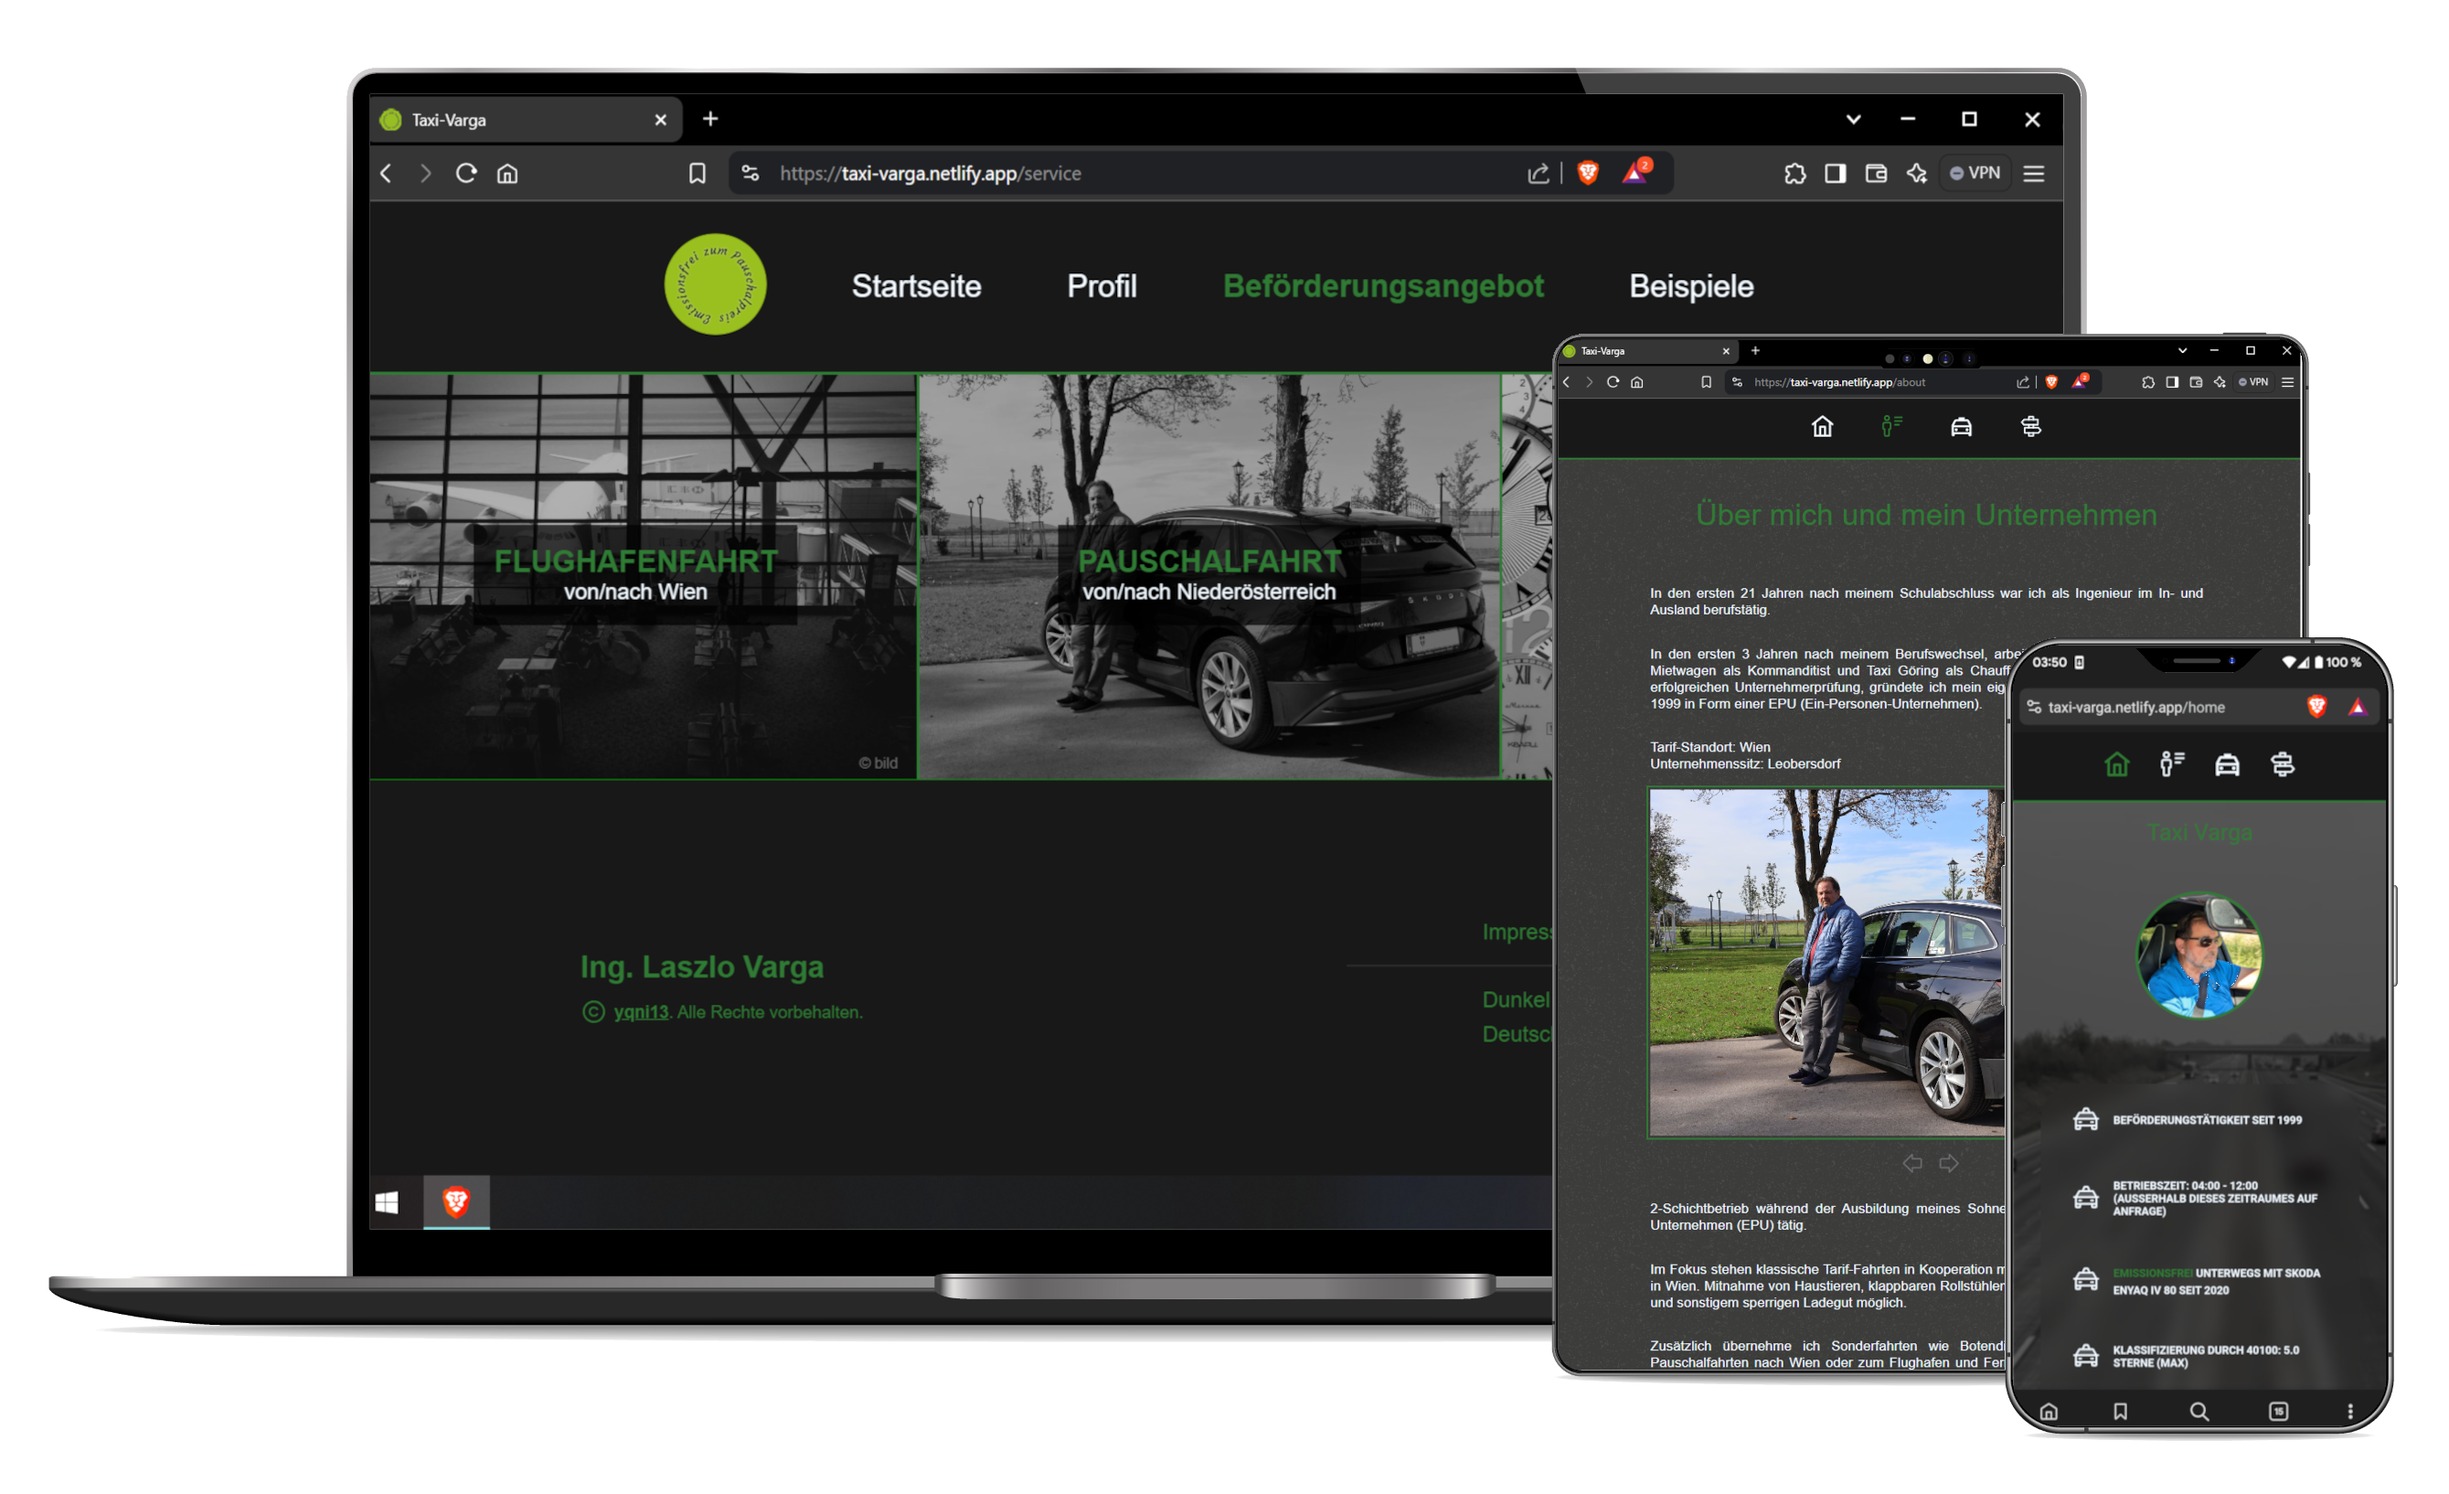
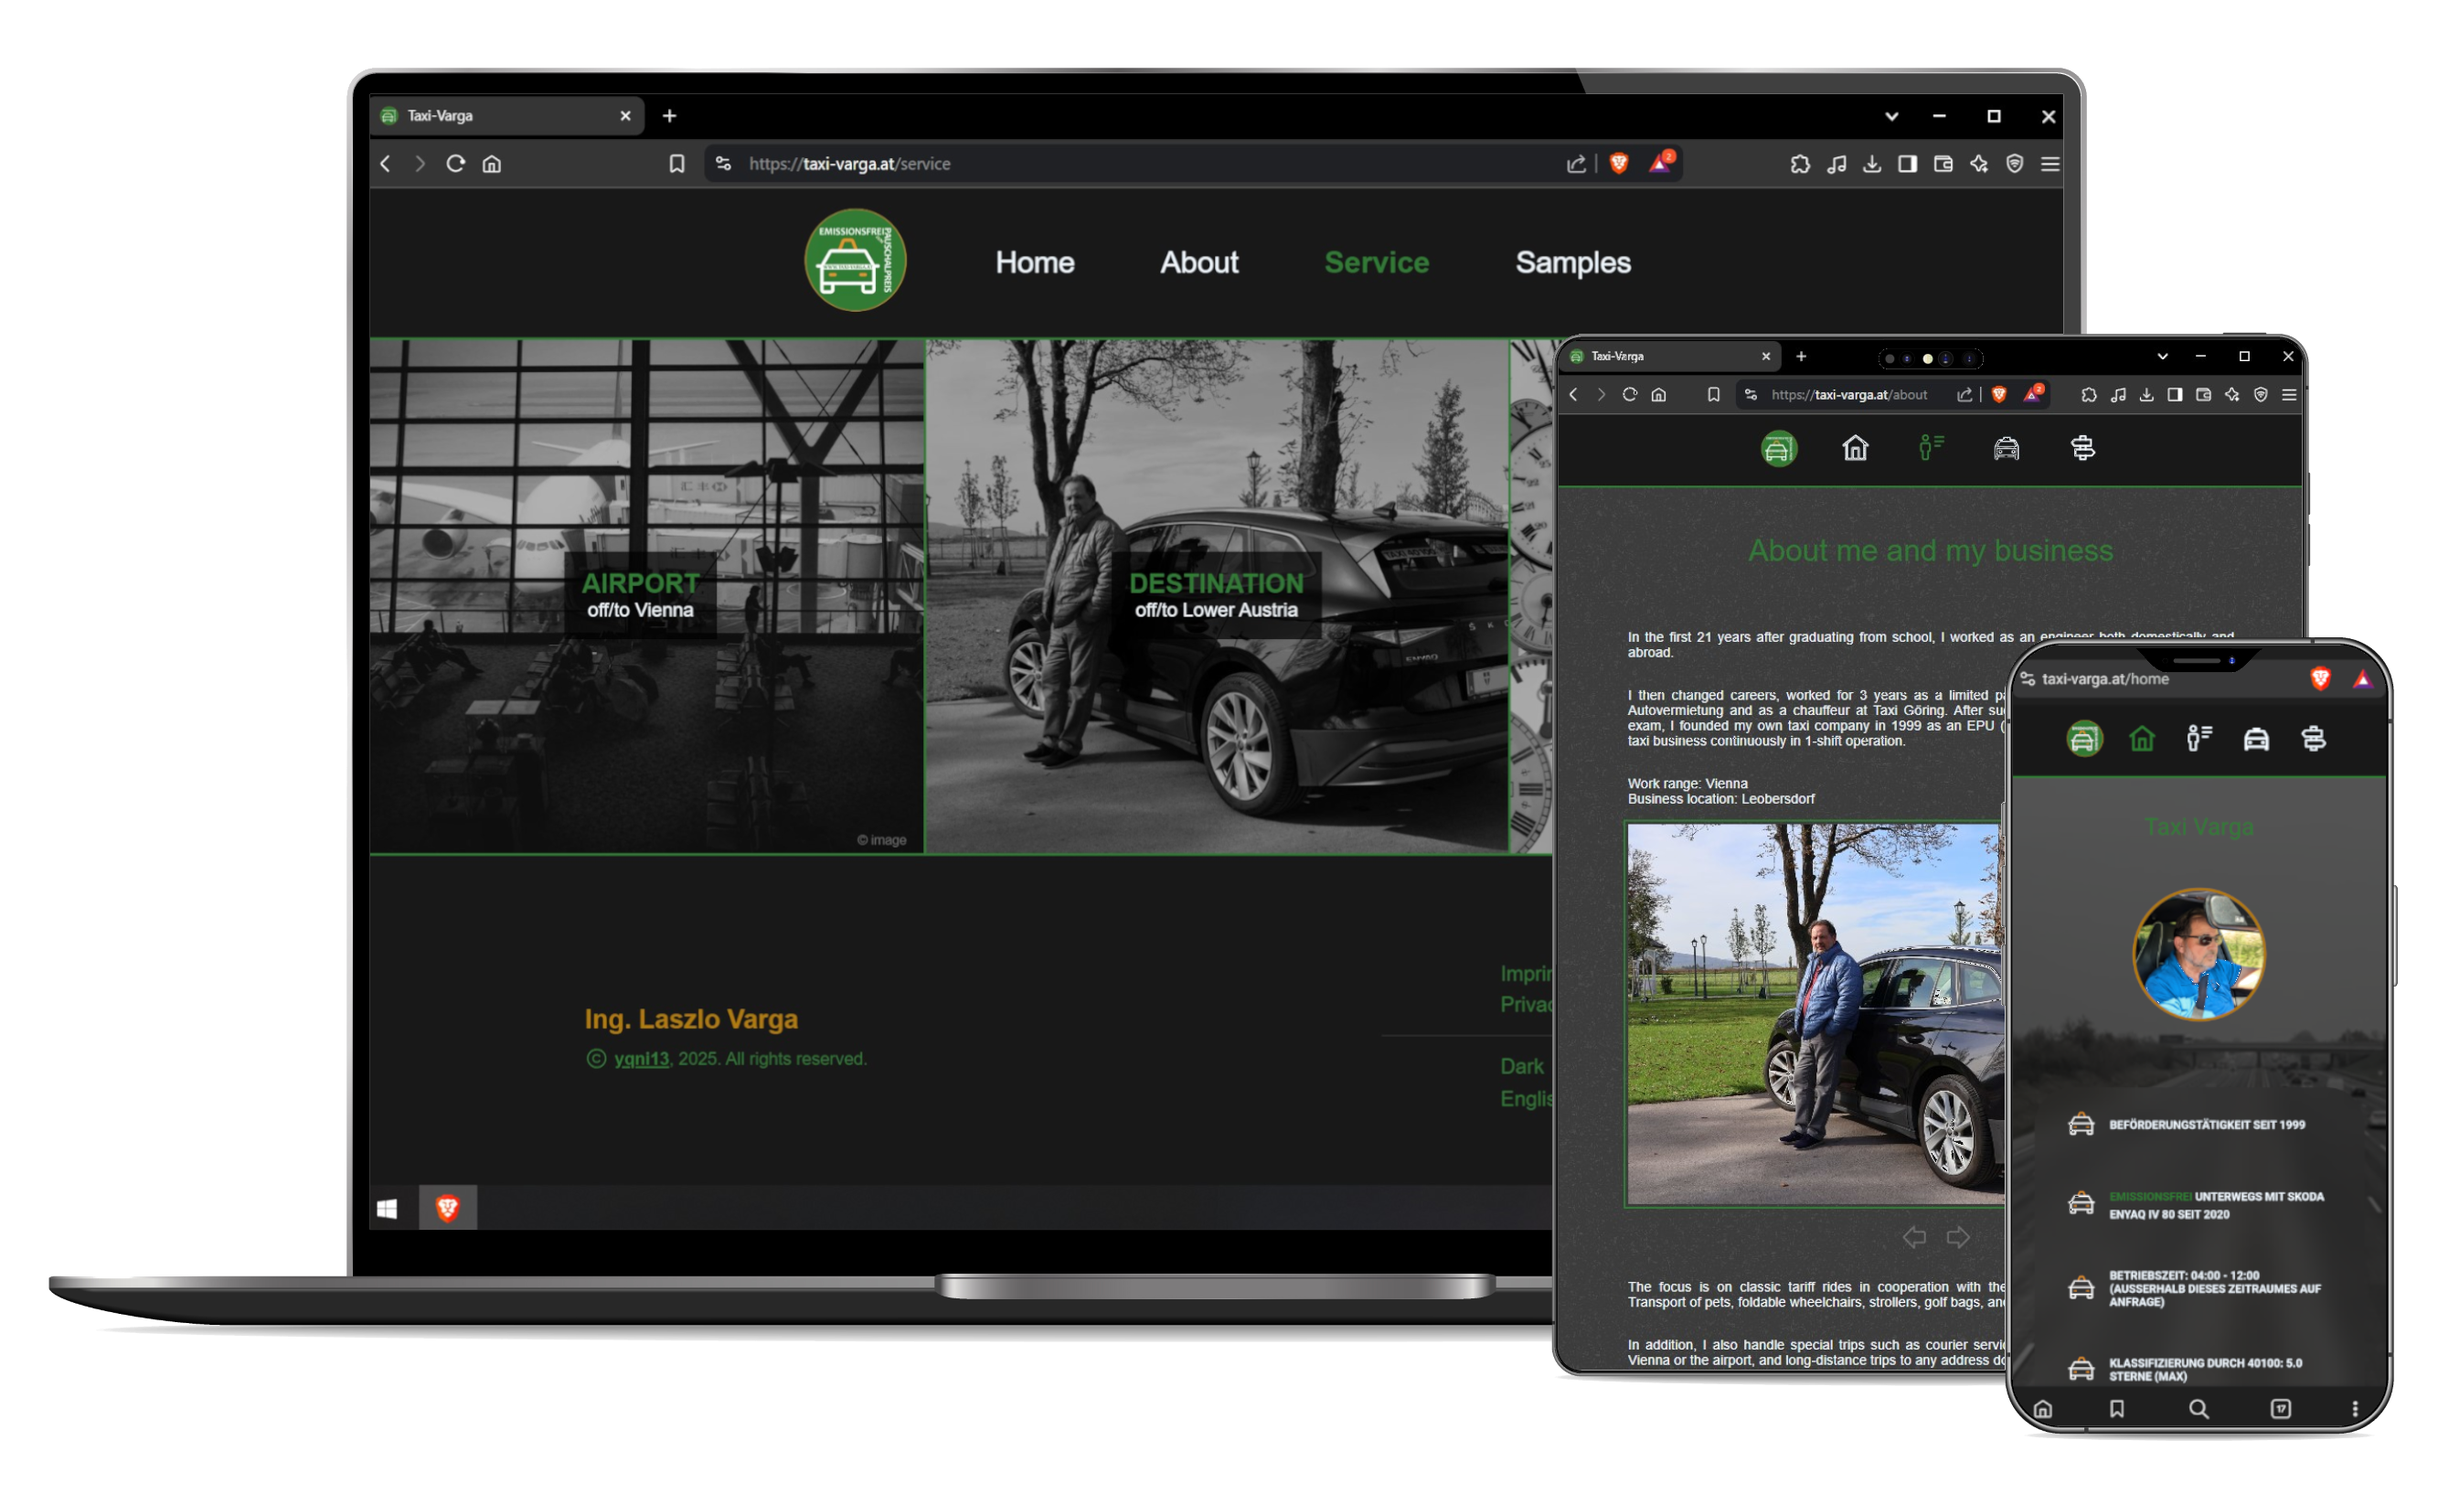
docs: update readme, protocol + images

diff --git a/frontend/src/app/modules/imprint/imprint.component.ts b/frontend/src/app/modules/imprint/imprint.component.ts
@@ -35,7 +35,7 @@ export class ImprintComponent implements OnInit, OnDestroy {
         
         this.devData = {
             project: 'taxi-varga',
-            version: 'v1.0.0-beta.2',
+            version: 'v1.0.0',
             github: 'https://github.com/yqni13/taxi-varga',
             portfolio: 'https://yqni13.com',
             email: 'yqni13@protonmail.com'

diff --git a/backend/src/models/mailing.model.js b/backend/src/models/mailing.model.js
@@ -81,7 +81,6 @@ class MailingModel {
                         throw new UnexpectedException('Unexpected error email');
                     }
                 } else {
-                    console.log("mail info: ", info);
                     resolve(true);
                 }
             })

diff --git a/README.md b/README.md
@@ -1,5 +1,5 @@
-# yqni13 taxi-varga
-$\texttt{\color{teal}{v1.0.0-beta.2}}$
+# yqni13 | taxi-varga
+$\texttt{\color{teal}{v1.0.0}}$
 
 
 <br><br>
@@ -27,10 +27,9 @@ $\texttt{\color{teal}{v1.0.0-beta.2}}$
     <img src="frontend/public/assets/docs/icons/eslint.png" alt="ESLint">&nbsp;&nbsp;
     <img src="frontend/public/assets/docs/icons/i18n.png" alt="i18n">&nbsp;&nbsp;
 </div>
-
 <br>
 
-### <a href="https://taxi-varga.netlify.app/">TRY LIVE DEMO</a>
+### visit the <a href="https://taxi-varga.at">WEBPAGE</a>
 
 <br>
 
@@ -43,8 +42,8 @@ Get startet with `npm install` (/frontend and /backend) to create necessary modu
 
 ### Build & Deploy
 The project at /frontend is hosted by <a href="https://app.netlify.com/">Netlify</a> meanwhile /backend is hosted by <a href="https://vercel.com/">Vercel</a>.
-<br><br>
-Note: Netlify does NOT support multi-line environment variables. To use ssh keys, it is neccessary to store the keys as single-line text and convert it back to the preferred format before building the project. Best practice would be to have a script that converts Netlify secrets beforehand or manually add the prepared keys as single-line text and then convert it.
+<br>
+<b>Note</b>: Netlify does NOT support multi-line environment variables. To use ssh keys, it is neccessary to store the keys as single-line text and convert it back to the preferred format before building the project. Best practice would be to have a script that converts Netlify secrets beforehand or manually add the prepared keys as single-line text and then convert it.
 <br>
 Currently public/private keys are converted from single-line secret to multi-line secret in: <a href="./frontend/set-env.ts">set-env.ts</a>
 <br><br>
@@ -59,6 +58,7 @@ Currently public/private keys are converted from single-line secret to multi-lin
     <dd>:mag: Custom search-input form component combined with Google Places API</dd>
     <dd>:clipboard: Custom form components (text-, textarea- & select-input)</dd>
     <dd>:wrench: Custom validation Angular/Express-Validator</dd>
+    <dd>:lock: asymmetric/hybrid (RSA/AES) encrypted requests</dd>
     <dd>:e-mail: Mail service with node.js & nodemailer for Backend</dd>
     <dd>:signal_strength: Http interception + custom snackbar modal</dd>
     <dd>:new_moon_with_face:/:sun_with_face: Custom color theme (dark/light mode)</dd>
@@ -101,12 +101,35 @@ The webpage offeres two theme settings: $\textsf{\color{gray}{dark mode}}$ & $\t
 
 <br>
 
+### $\textsf{\color{teal}Security}$
+
+For security reasons, the user automatically starts a service with a background-login process which sends an init request (see figure 5). The payload consists of the service in use and the credential data.Currently both username and password are asymmetrically encrypted => best practice is to hash the password but we dont use a database for hash comparison. The server compares the data to authenticate the validity of the client and generates a random jsonwebtoken with an appropriate expiration time. In the response of figure 5 we can see the generated token that gets stored (currently not cookie, follows with update) and included with each following request to ensure authentication.
+
+<div align="center">
+    <img src="frontend/public/assets/docs/session-token_login.jpg" alt="&nbsp;no picture found">
+    Figure 5
+</div>
+
+<br>
+
+Hybrid encryption is used for encrypting sensible data like the user input used for sending the emails (name, phone number, message and so forth...). Figure 6 displays the encrypted data in the request, decrypted in the backend to handle logic and again encrypting data for the response. On client side, the webcrypto api support Angular to handle RSA and AES en/decryption and in NodeJS on the backend node-forge comes to use.
+
+<div align="center">
+    <img src="frontend/public/assets/docs/encrypted_request.jpg" alt="&nbsp;no picture found">
+    Figure 6
+</div>
+
+<br>
+
 ## Updates
 [list of all updates](update_protocol.md)
 
-### $\textsf{last\ update\ 1.0.0-beta.1\ >>\ {\color{pink}1.0.0-beta.2}}$
+### $\textsf{last\ update\ 1.0.0-beta.2\ >>\ {\color{pink}1.0.0}}$
 
-- $\textsf{\color{red}Patch:}$ Added sessionToken to address-input.component to upgrade billing efficency (now only a session is charged instead of each request).
+- $\textsf{\color{red}Change:}$ Added authentication to handle a service process witha session-token, checking for validity and expiration on every request.
+- $\textsf{\color{red}Change:}$ Added en/decryption on client and server side to handle authentication and other sensible data on a secure level.
+- $\textsf{\color{red}Patch:}$ Refactored Google API calls to send placeId instead of search text to increase output precision.
+- $\textsf{\color{red}Patch:}$ Refactored business logic on service calculations.
 
 <br>
 
@@ -114,4 +137,8 @@ The webpage offeres two theme settings: $\textsf{\color{gray}{dark mode}}$ & $\t
 <dl>
     <dd>- update Google Places API to Places API (New)</dd>
     <dd>- update email format</dd>
+    <dd>- update token handling (refresh token)</dd>
+    <dd>- add key navigation</dd>
+    <dd>- update logging & exception handling (client side)</dd>
+    <dd>- add testing</dd>
 </dl>

diff --git a/update_protocol.md b/update_protocol.md
@@ -4,6 +4,13 @@
 
 <br>
 
+### 2025/02/23 - $\textsf{last\ update\ 1.0.0-beta.2\ >>\ {\color{pink}1.0.0}}$
+
+- $\textsf{\color{red}Change:}$ Added authentication to handle a service process witha session-token, checking for validity and expiration on every request.
+- $\textsf{\color{red}Change:}$ Added en/decryption on client and server side to handle authentication and other sensible data on a secure level.
+- $\textsf{\color{red}Patch:}$ Refactored Google API calls to send placeId instead of search text to increase output precision.
+- $\textsf{\color{red}Patch:}$ Refactored business logic on service calculations.
+
 ### 2025/01/21 - $\textsf{last\ update\ 1.0.0-beta.1\ >>\ {\color{pink}1.0.0-beta.2}}$
 
 - $\textsf{\color{red}Patch:}$ Added sessionToken to address-input.component to upgrade billing efficency (now only a session is charged instead of each request).
